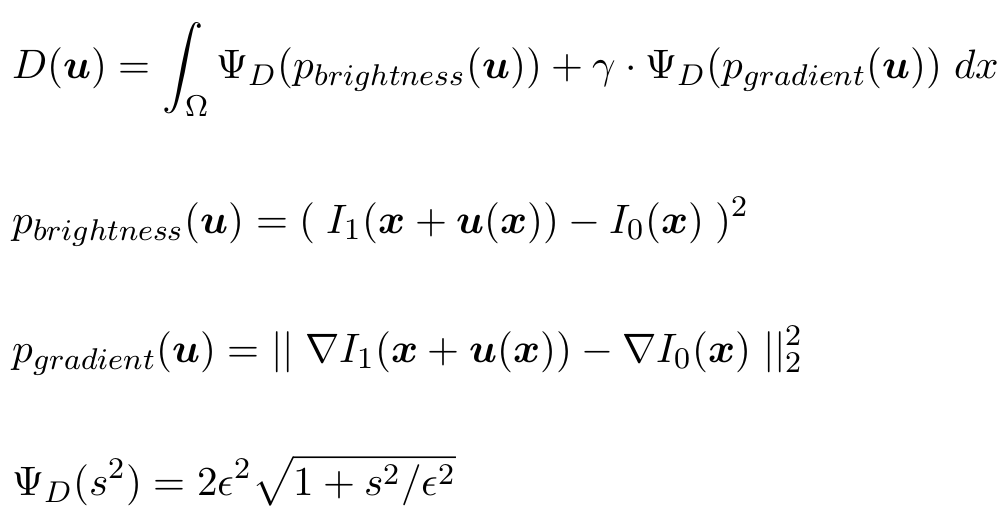
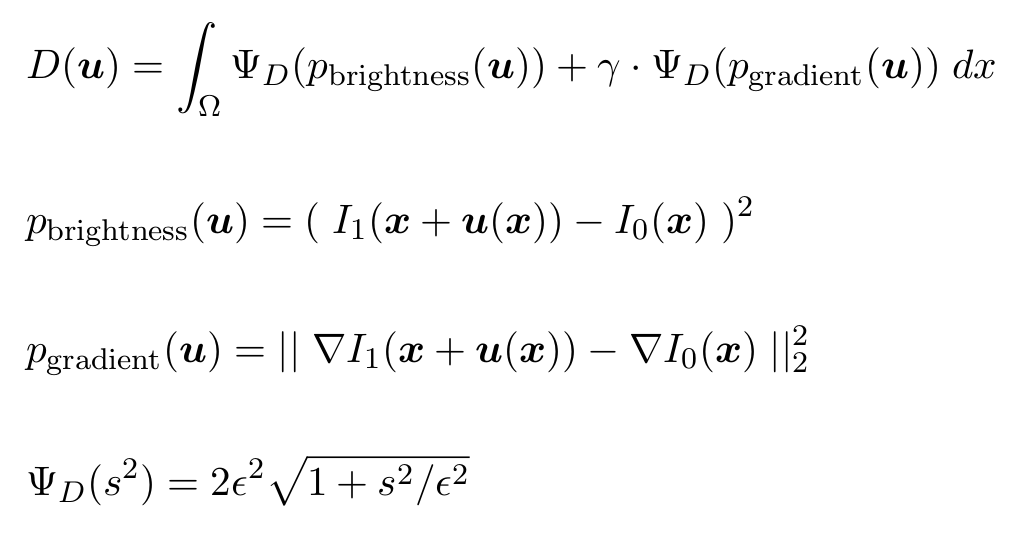
dont know, found this uncommited

diff --git a/seminar_vof/formulas.tex b/seminar_vof/formulas.tex
@@ -59,17 +59,19 @@
 \\\\
 &p(\flow)= ||\;\nabla u\;||_2^2 + ||\;\nabla v\;||_2^2
 \\\\
-&D(\flow) = \int_\Omega \Psi_D(p_{brightness}(\flow)) + \gamma*\Psi_D(p_{gradient}(\flow))\;dx
+&D(\flow) = \int_\Omega \Psi_D(p_{\text{brightness}}(\flow)) + \gamma*\Psi_D(p_{\text{gradient}}(\flow))\;dx
 \\\\
-&p_{brightness}(\flow) = (\;I_1(\x+\flow(\x))-I_0(\x)\;)^2
+&p_{\text{brightness}}(\flow) = (\;I_1(\x+\flow(\x))-I_0(\x)\;)^2
 \\\\
-&p_{gradient}(\flow) = ||\;\nabla I_1(\x+\flow(\x))-\nabla I_0(\x)\;||_2^2
+&p_{\text{gradient}}(\flow) = ||\;\nabla I_1(\x+\flow(\x))-\nabla I_0(\x)\;||_2^2
 \\\\
 &\Psi_D(s^2) = 2\epsilon^2\sqrt{1+s^2/\epsilon^2}
 \end{align*}
 
 \begin{align*}
-&S_w(\x) = \bigintsss w(\tau)\Mat{I_x(\x-\tau)^2 && I_x(\x-\tau)I_y(\x-\tau)\\I_x(\x-\tau)I_y(\x-\tau) && I_y(\x-\tau)^2} \;d\tau
+&S_w(\x) = \bigintsss w(\tau)\Mat{\Phi_x(\x-\tau)^2 && \Phi_x(\x-\tau)\Phi_y(\x-\tau)\\\Phi_x(\x-\tau)\Phi_y(\x-\tau) && \Phi_y(\x-\tau)^2} \;d\tau
+\\\\
+& \Phi_{\text{structure}} = I
 \\\\
 &S_w = Q \Lambda Q\T = \mat{\ev_1&\ev_2}\mat{\lam_1&0\\0&\lam_2}\mat{\ev_1\T\\ \ev_2\T}
 \\\\
@@ -84,6 +86,8 @@
 &S_2(\flow,\aaux,\baux) = \sum_{l=1}^2 \Psi_l\Big( (\ev_l\T(\nabla u-\aaux))^2 + (\ev_l\T(\nabla v-\baux)) \Big)
 \\\\
 &S_{\text{aux}}(\aaux,\baux) = \sum_{l=1}^2 \Psi_l\Big( \sum_{k=1}^2 (\ev_k\T \mathcal{J}\aaux\;\ev_l)^2 + (\ev_k\T \mathcal{J}\baux\;\ev_l)^2\;\Big)
+\\\\
+&S_1(\flow) = \sum_{l=1}^2 \Psi_l\Big((\ev_l\T\nabla u)^2+(\ev_l\T\nabla v)^2\Big)
 \\\\
 &R(\flow) = \int_\Omega \inf_{\aaux,\baux}\Big[ S_1(\flow) +  S_2(\flow,\aaux,\baux) + \beta * S_{\text{aux}}(\aaux,\baux) \Big]\;dx
 \\\\
